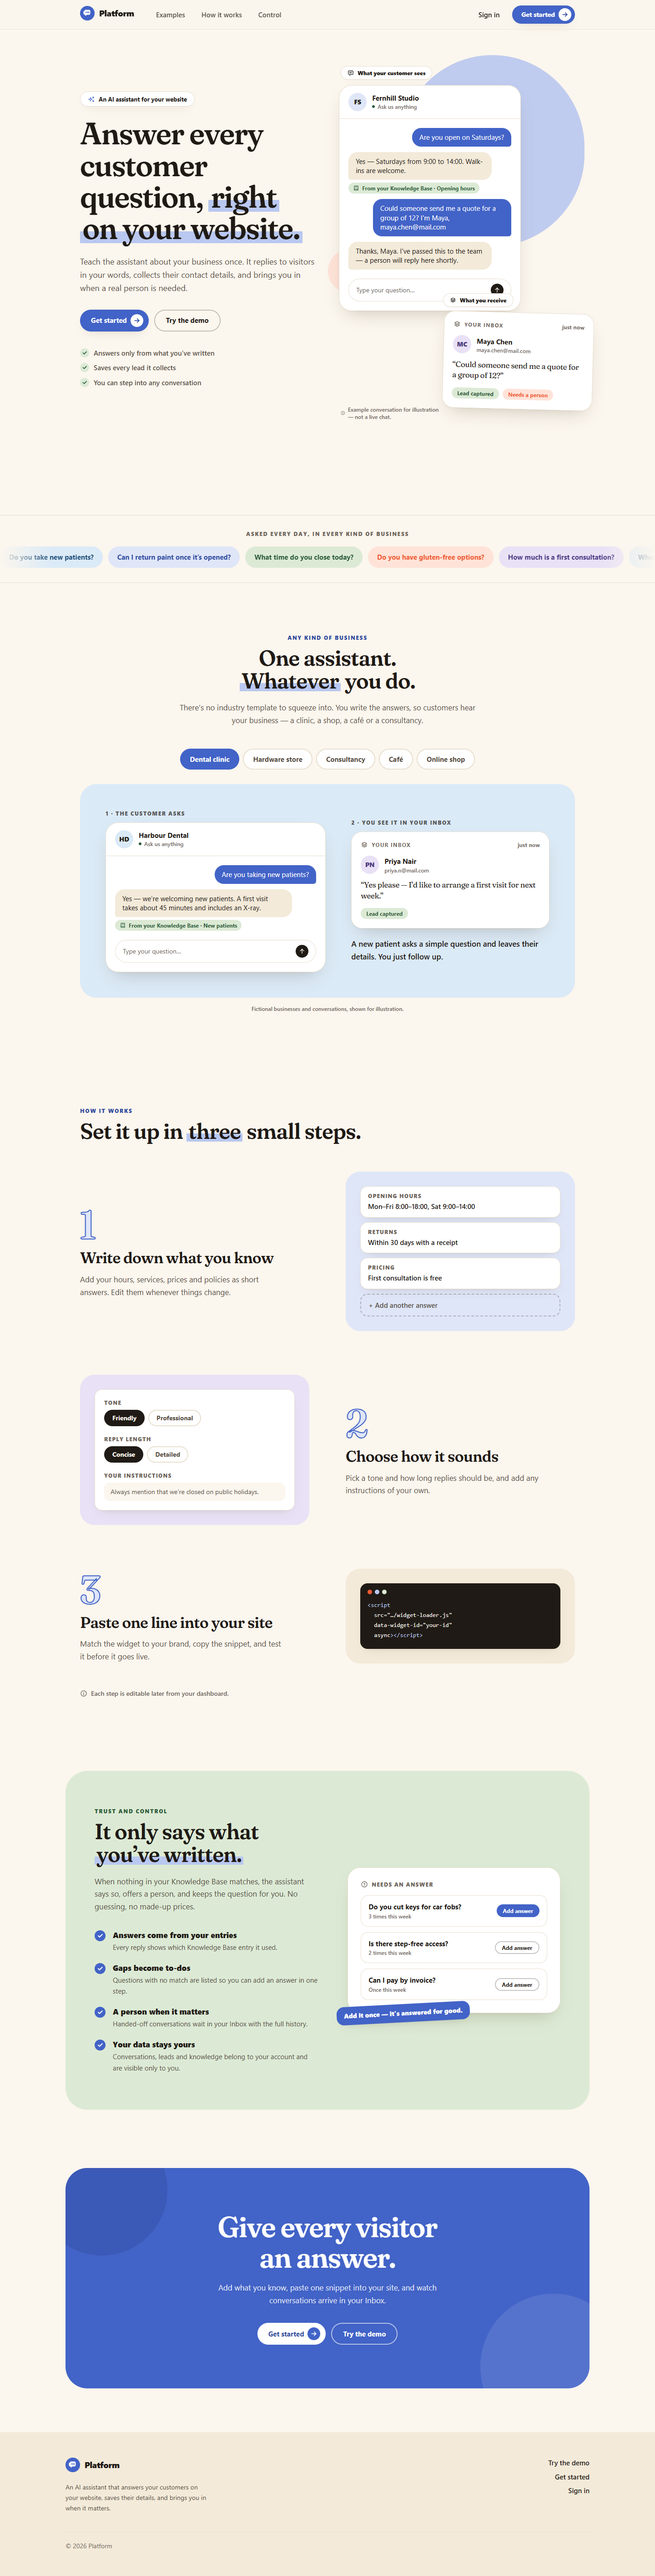
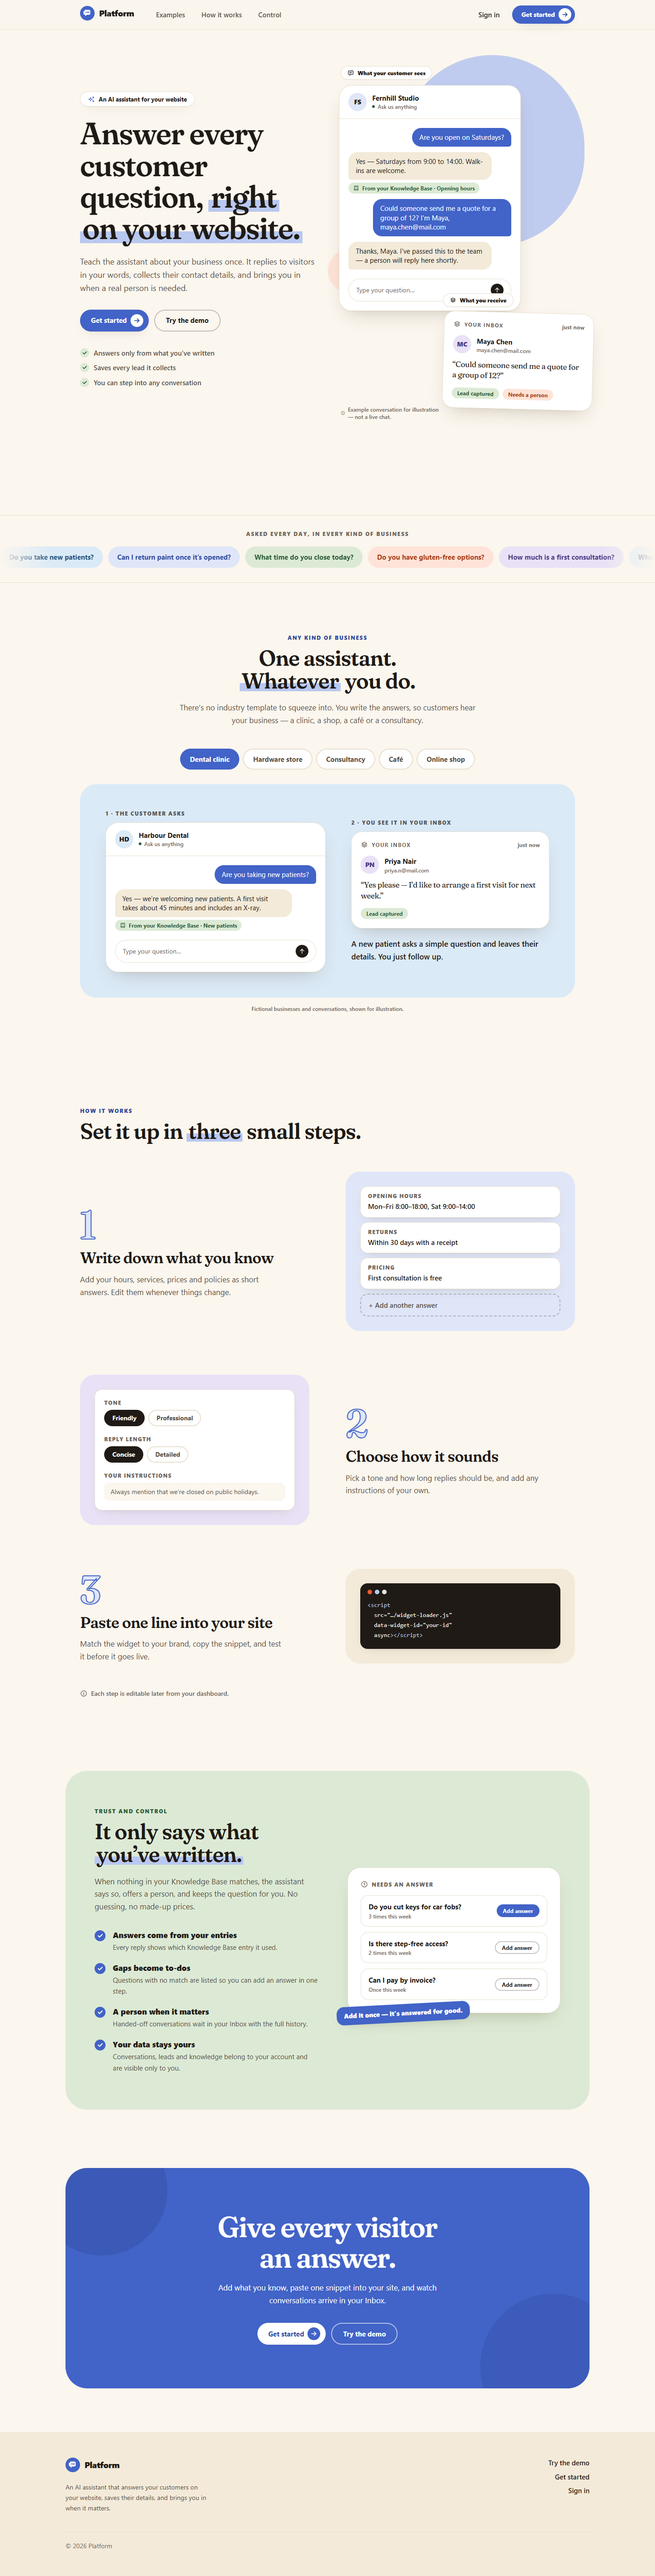
Fix landing accessibility contrast and semantics; update e2e background assertion
- Darker coral text (#A63A14) on its tint (was 2.77:1, now 5.32:1)
- Closing panel copy pure white; decorative blobs darkened so the outlined button meets 4.5:1; white focus ring on the blue panel
- Trust list uses ul/li instead of an invalid dl structure
- auth-dark-theme e2e now expects the landing page's paper background

Changed region(s): [[0.7188, 0.8711, 0.9062, 0.9334]]

diff --git a/src/features/marketing/components/control-section.tsx b/src/features/marketing/components/control-section.tsx
@@ -37,9 +37,9 @@ export function ControlSection() {
               and keeps the question for you. No guessing, no made-up prices.
             </p>
 
-            <dl className='mt-9 flex flex-col gap-5'>
+            <ul className='mt-9 flex flex-col gap-5'>
               {POINTS.map((point) => (
-                <div key={point.title} className='flex gap-4'>
+                <li key={point.title} className='flex gap-4'>
                   <span
                     aria-hidden='true'
                     className='bg-lp-blue mt-0.5 text-white flex size-6 shrink-0 items-center justify-center rounded-full'
@@ -47,14 +47,14 @@ export function ControlSection() {
                     <Icons.check className='size-3.5' strokeWidth={3.5} />
                   </span>
                   <div>
-                    <dt className='text-lp-ink text-[17px] font-extrabold'>{point.title}</dt>
-                    <dd className='text-lp-ink-soft mt-0.5 text-[15px] leading-relaxed'>
+                    <p className='text-lp-ink text-[17px] font-extrabold'>{point.title}</p>
+                    <p className='text-lp-ink-soft mt-0.5 text-[15px] leading-relaxed'>
                       {point.description}
-                    </dd>
+                    </p>
                   </div>
-                </div>
+                </li>
               ))}
-            </dl>
+            </ul>
           </div>
 
           <div

diff --git a/src/features/marketing/components/question-marquee.tsx b/src/features/marketing/components/question-marquee.tsx
@@ -10,12 +10,12 @@ const QUESTIONS: { text: string; tone: string }[] = [
   { text: 'Do you take new patients?', tone: 'bg-lp-sky text-lp-sky-ink' },
   { text: 'Can I return paint once it’s opened?', tone: 'bg-lp-blue-soft text-lp-blue-deep' },
   { text: 'What time do you close today?', tone: 'bg-lp-sage text-lp-sage-ink' },
-  { text: 'Do you have gluten-free options?', tone: 'bg-lp-coral-soft text-lp-coral' },
+  { text: 'Do you have gluten-free options?', tone: 'bg-lp-coral-soft text-lp-coral-ink' },
   { text: 'How much is a first consultation?', tone: 'bg-lp-lilac text-lp-lilac-ink' },
   { text: 'Where is my order?', tone: 'bg-lp-sky text-lp-sky-ink' },
   { text: 'Is there parking nearby?', tone: 'bg-lp-blue-soft text-lp-blue-deep' },
   { text: 'Can I speak to someone about my invoice?', tone: 'bg-lp-sage text-lp-sage-ink' },
-  { text: 'Do you deliver on weekends?', tone: 'bg-lp-coral-soft text-lp-coral' },
+  { text: 'Do you deliver on weekends?', tone: 'bg-lp-coral-soft text-lp-coral-ink' },
   { text: 'What’s your cancellation policy?', tone: 'bg-lp-lilac text-lp-lilac-ink' }
 ];
 

diff --git a/src/features/marketing/components/final-cta-section.tsx b/src/features/marketing/components/final-cta-section.tsx
@@ -10,13 +10,13 @@ export function FinalCtaSection() {
         />
         <div
           aria-hidden='true'
-          className='bg-white/10 absolute -right-20 -bottom-28 size-80 rounded-full'
+          className='bg-lp-blue-deep/30 absolute -right-20 -bottom-28 size-80 rounded-full'
         />
-        <div className='relative'>
+        <div className='lp-on-blue relative'>
           <h2 className='lp-display mx-auto max-w-3xl text-[38px] leading-[1.04] text-white font-semibold text-balance sm:text-[56px] lg:text-[64px]'>
             Give every visitor an answer.
           </h2>
-          <p className='text-white/85 mx-auto mt-5 max-w-lg text-[17px] leading-relaxed text-pretty'>
+          <p className='text-white mx-auto mt-5 max-w-lg text-[17px] leading-relaxed text-pretty'>
             Add what you know, paste one snippet into your site, and watch conversations arrive in
             your Inbox.
           </p>

diff --git a/src/styles/landing.css b/src/styles/landing.css
@@ -22,6 +22,7 @@
   --lp-blue-soft: #dfe6f8;
   --lp-coral: #ef5b34;
   --lp-coral-soft: #ffe3d8;
+  --lp-coral-ink: #a63a14;
   --lp-sage: #dcead5;
   --lp-sage-ink: #2b5a37;
   --lp-sky: #dbeaf7;
@@ -47,6 +48,7 @@
     --color-lp-blue-soft: var(--lp-blue-soft);
     --color-lp-coral: var(--lp-coral);
     --color-lp-coral-soft: var(--lp-coral-soft);
+    --color-lp-coral-ink: var(--lp-coral-ink);
     --color-lp-sage: var(--lp-sage);
     --color-lp-sage-ink: var(--lp-sage-ink);
     --color-lp-sky: var(--lp-sky);
@@ -86,6 +88,11 @@
 .landing :focus-visible {
   outline: 2px solid var(--lp-focus);
   outline-offset: 3px;
+}
+
+/* The focus ring must stay visible on the solid-blue closing panel. */
+.landing .lp-on-blue :focus-visible {
+  outline-color: #ffffff;
 }
 
 @keyframes lp-rise {

diff --git a/e2e/auth-dark-theme.spec.ts b/e2e/auth-dark-theme.spec.ts
@@ -64,9 +64,9 @@ test.describe('Daylight auth pages — dark theme', () => {
       .locator('.daylight-marketing')
       .first()
       .evaluate((el) => getComputedStyle(el).backgroundColor);
-    // The landing page's own (light-only) canvas token, unaffected by
+    // The landing page's own (light-only) paper background, unaffected by
     // the global dark preference set on the auth page moments ago.
-    expect(landingBg).toBe('rgb(239, 241, 250)');
+    expect(landingBg).toBe('rgb(251, 246, 238)');
   });
 
   test('toggling the theme does not change auth validation or submission behavior', async ({

diff --git a/src/features/marketing/components/conversation-ui.tsx b/src/features/marketing/components/conversation-ui.tsx
@@ -109,7 +109,7 @@ export type InboxTone = 'lead' | 'handoff' | 'unanswered';
 
 const TONE: Record<InboxTone, { label: string; className: string }> = {
   lead: { label: 'Lead captured', className: 'bg-lp-sage text-lp-sage-ink' },
-  handoff: { label: 'Needs a person', className: 'bg-lp-coral-soft text-lp-coral' },
+  handoff: { label: 'Needs a person', className: 'bg-lp-coral-soft text-lp-coral-ink' },
   unanswered: { label: 'Unanswered question', className: 'bg-lp-blue-soft text-lp-blue-deep' }
 };
 
